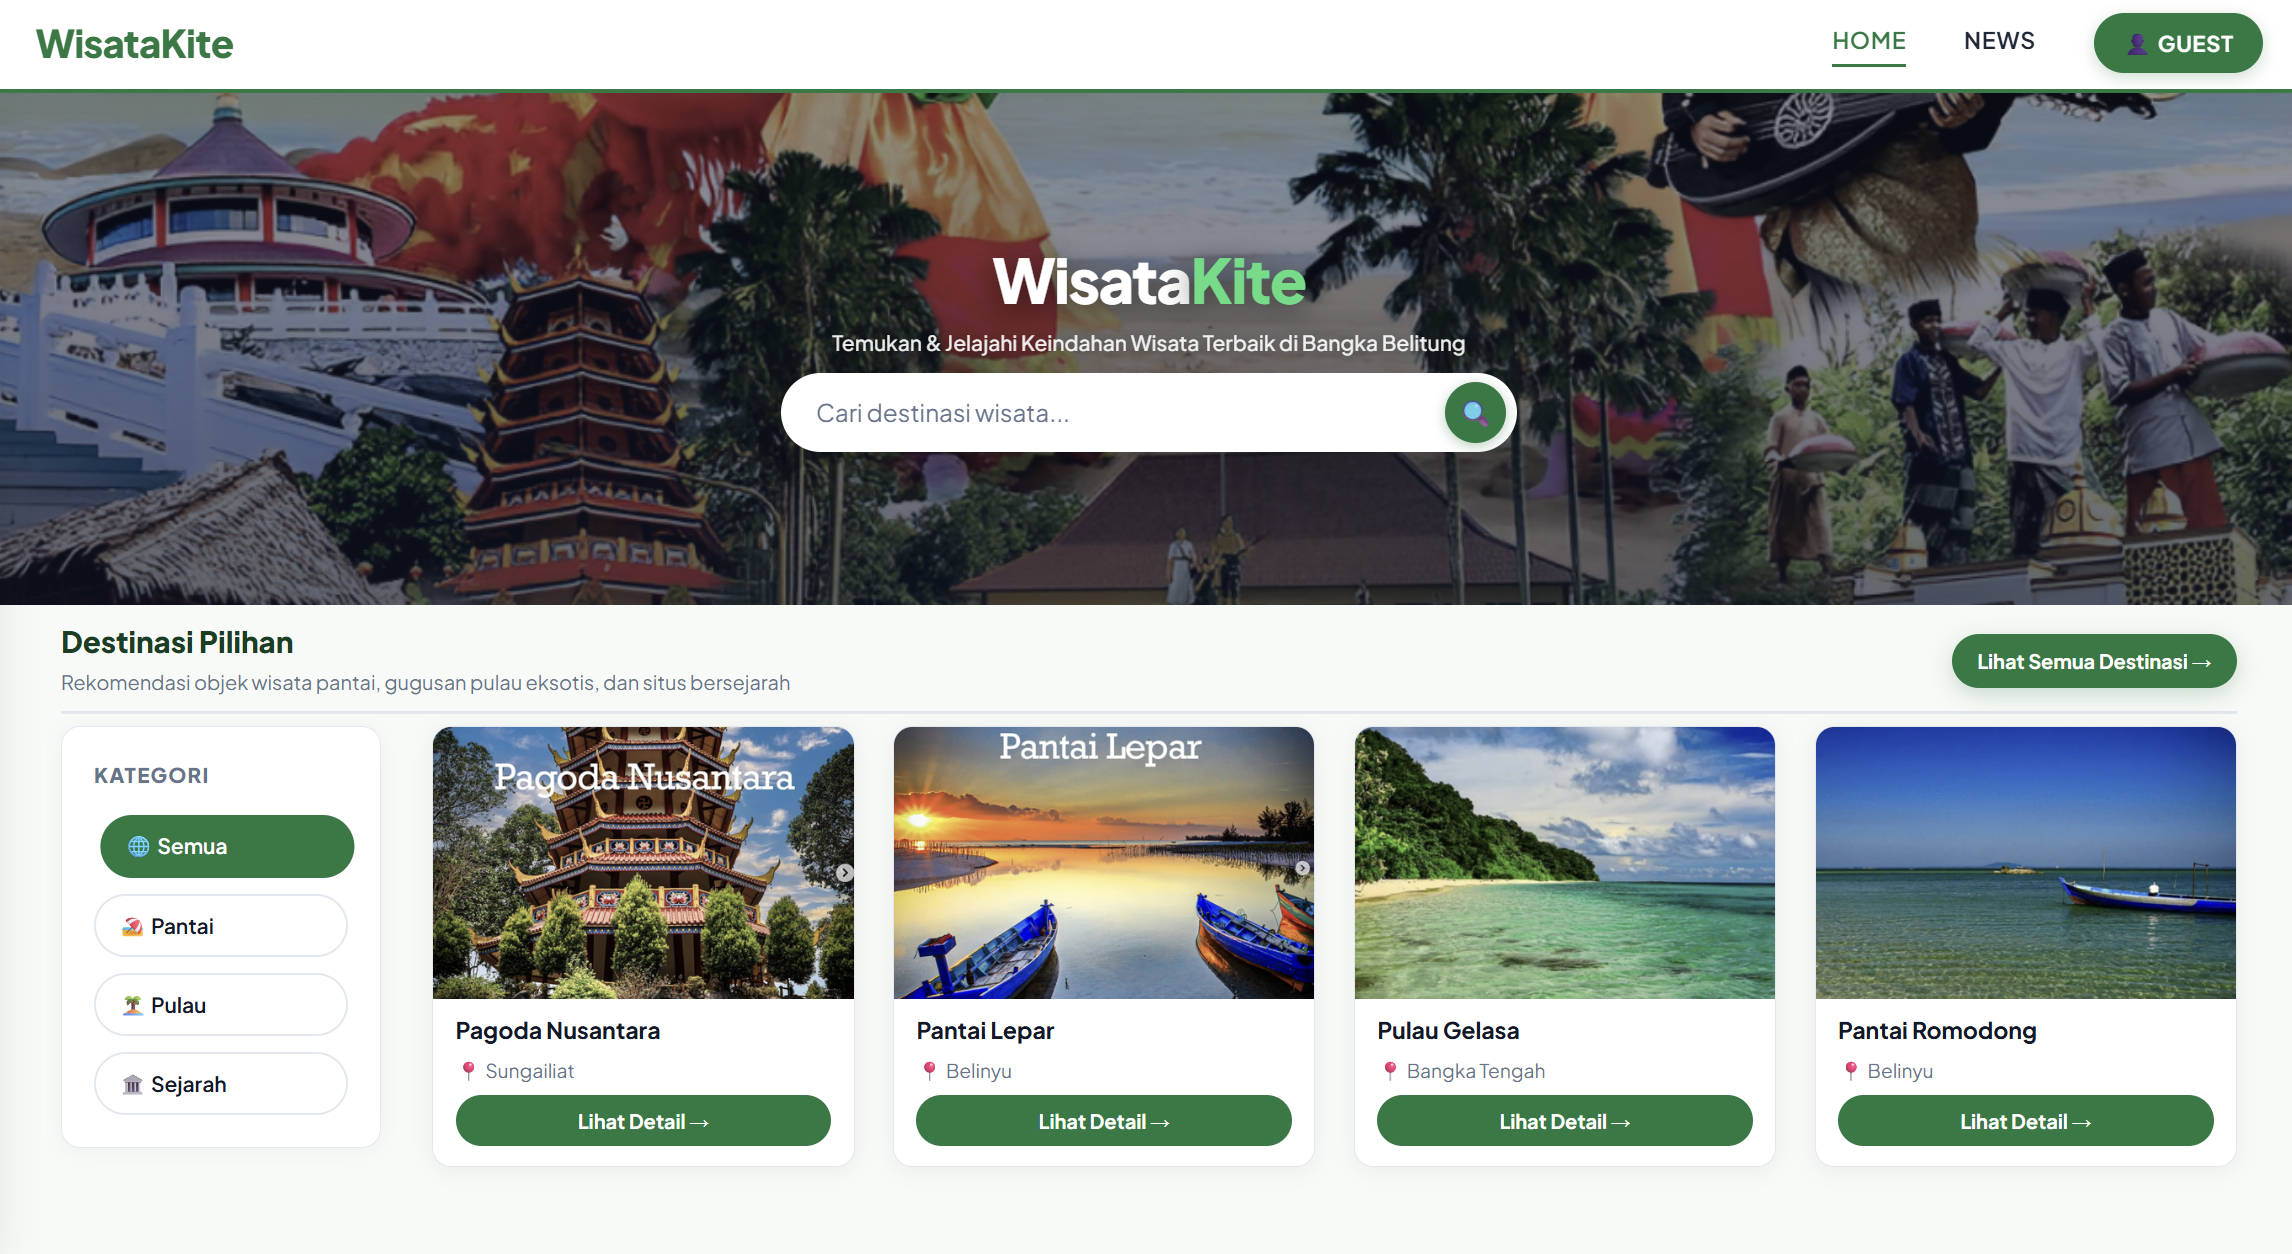
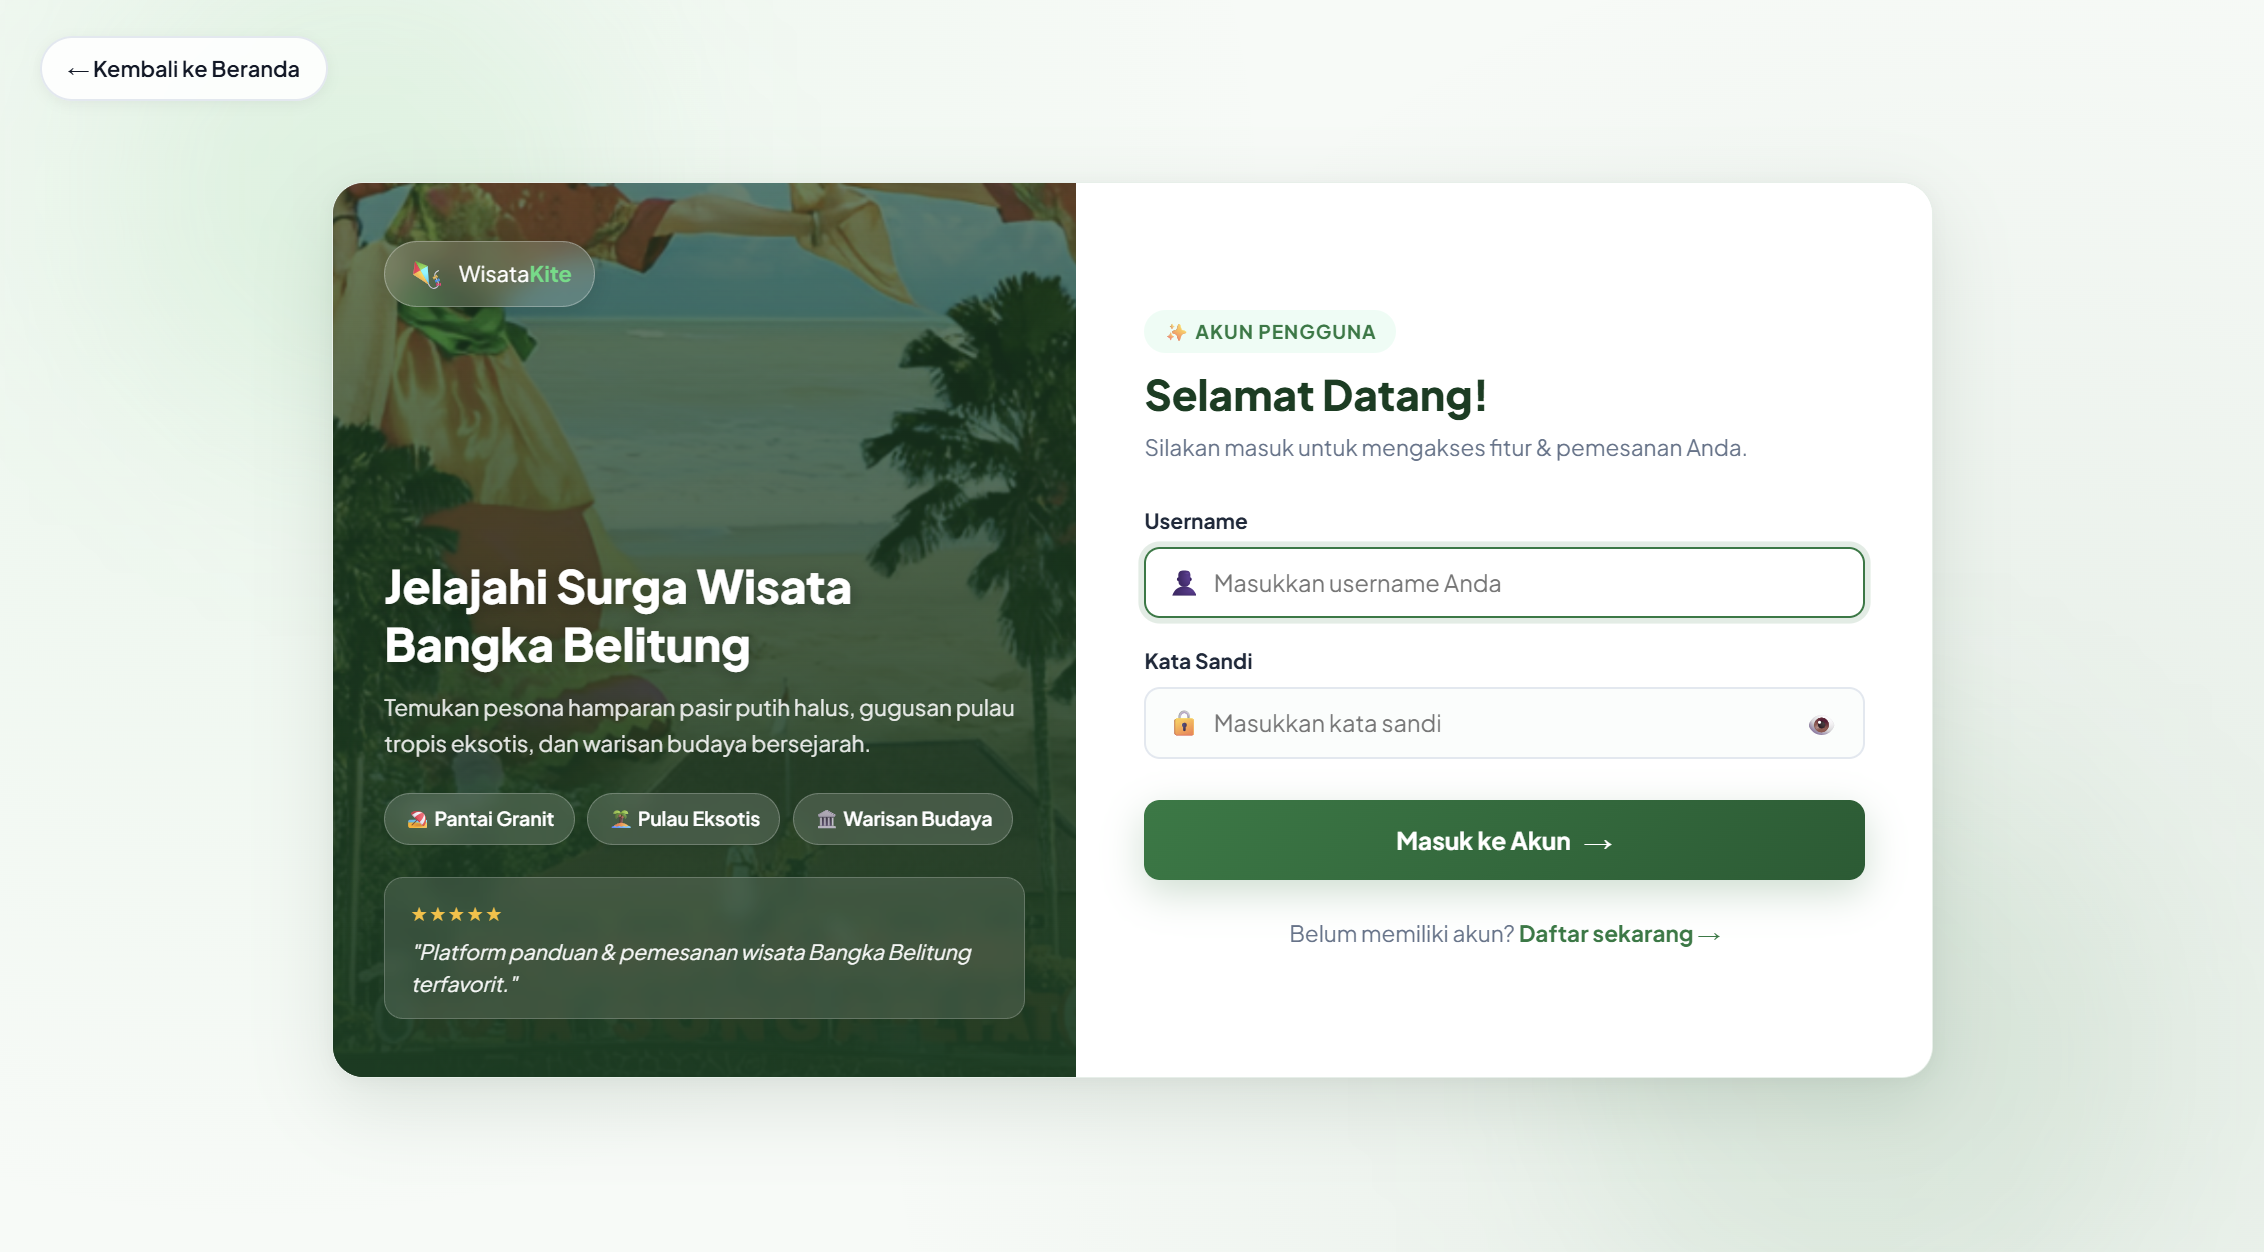
Update portfolio

diff --git a/data/projects.ts b/data/projects.ts
@@ -222,9 +222,10 @@ export const projects: Project[] = [
     technologies: ["PHP", "CSS", "JavaScript", "MySQL"],
     image: "/images/projects/wisatakite.png",
     images: [
-      "/images/projects/wisatakite-1.png",
+      "/images/projects/wisatakite-2.png",
+      "/images/projects/wisatakite-3.png",
     ],
-    slides: ["Halaman Home"],
+    slides: ["Halaman Home, Halaman News"],
     github: "https://github.com/arya-ramadhani/wisatakite-platform",
     featured: true,
   },
